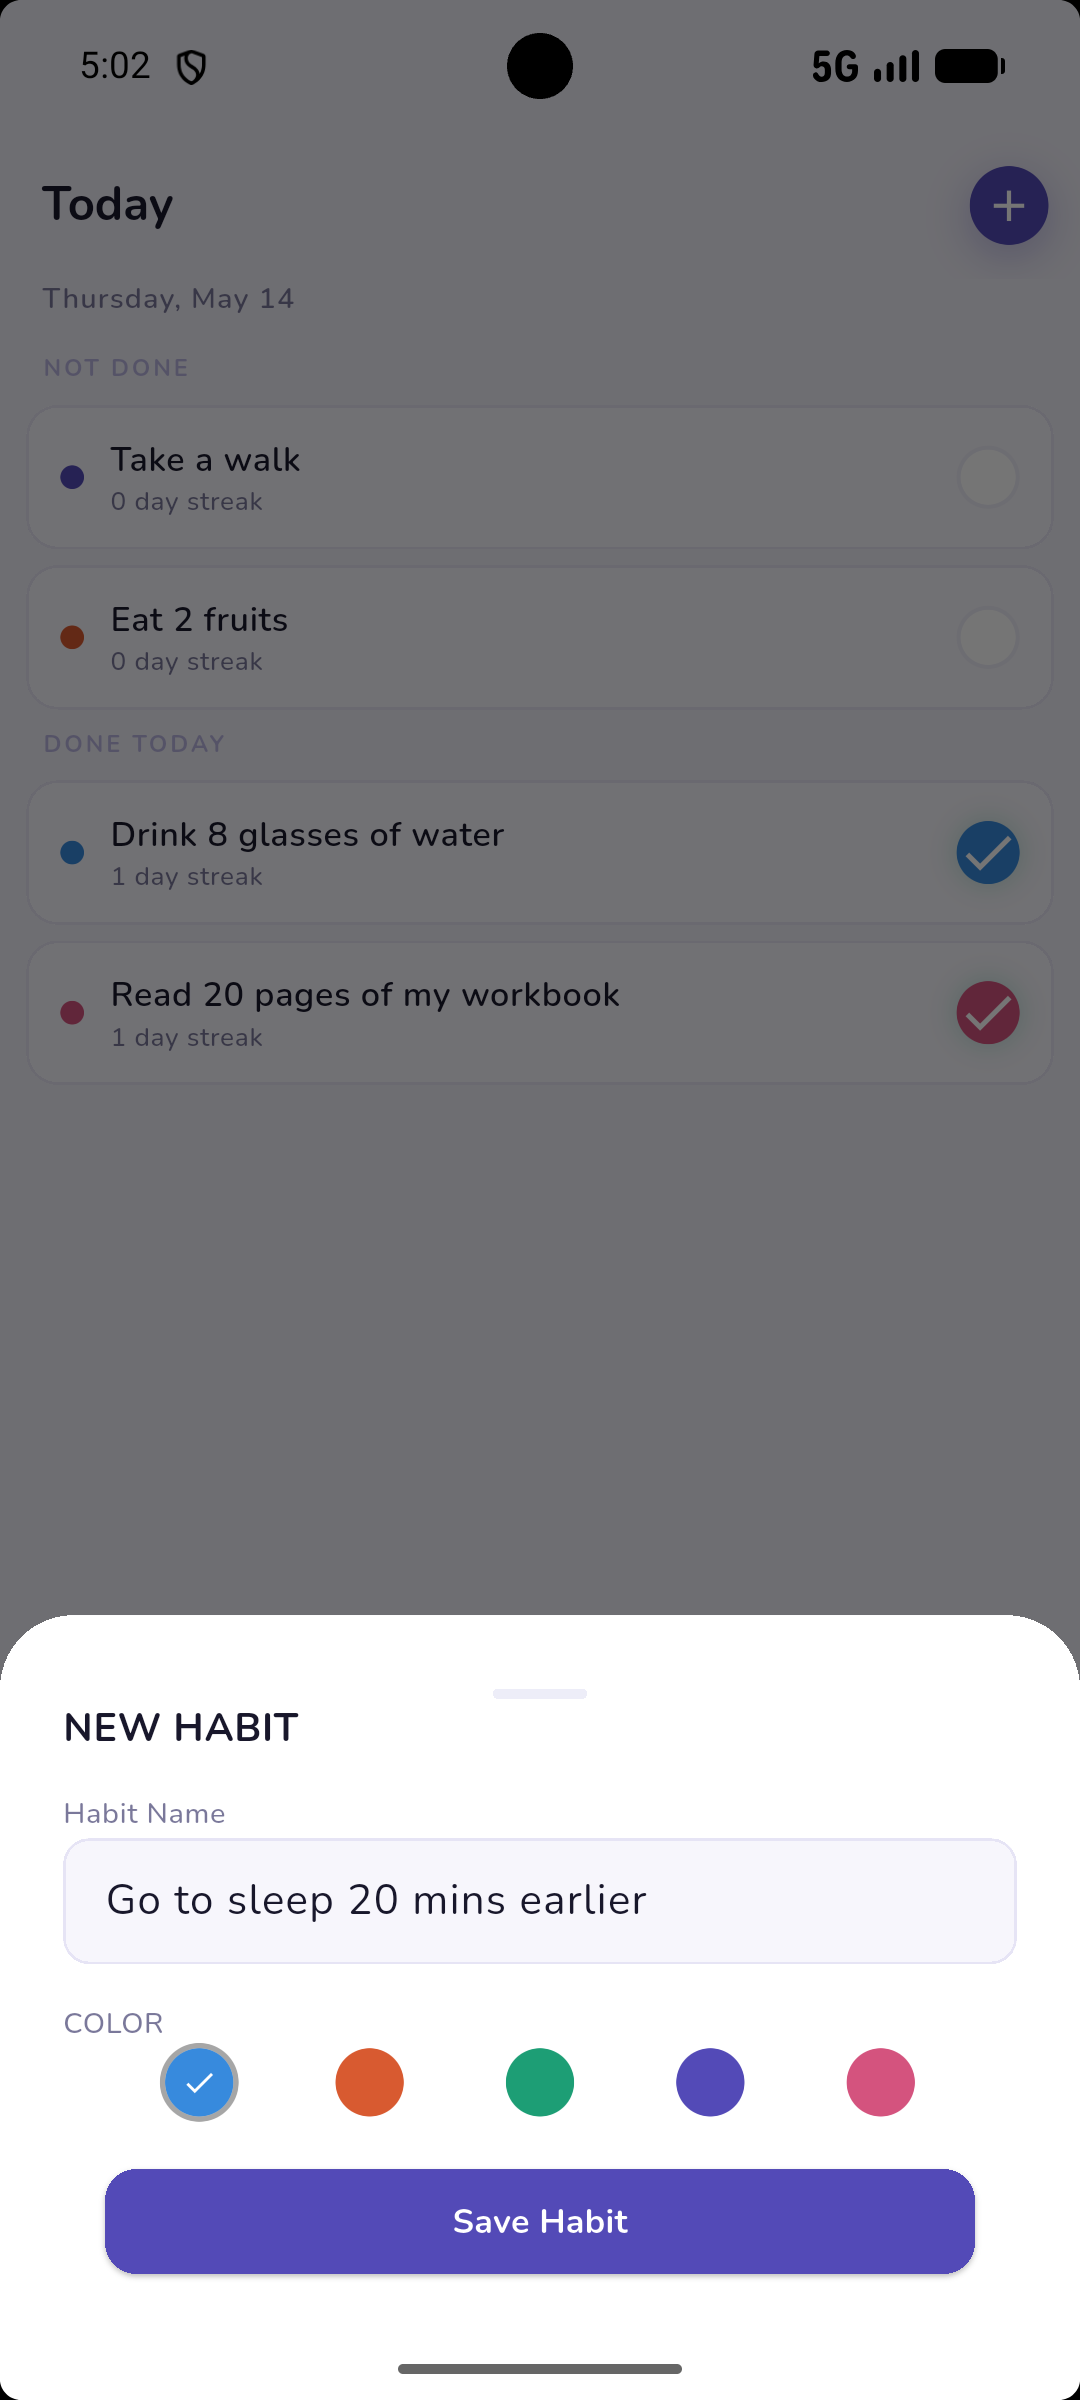
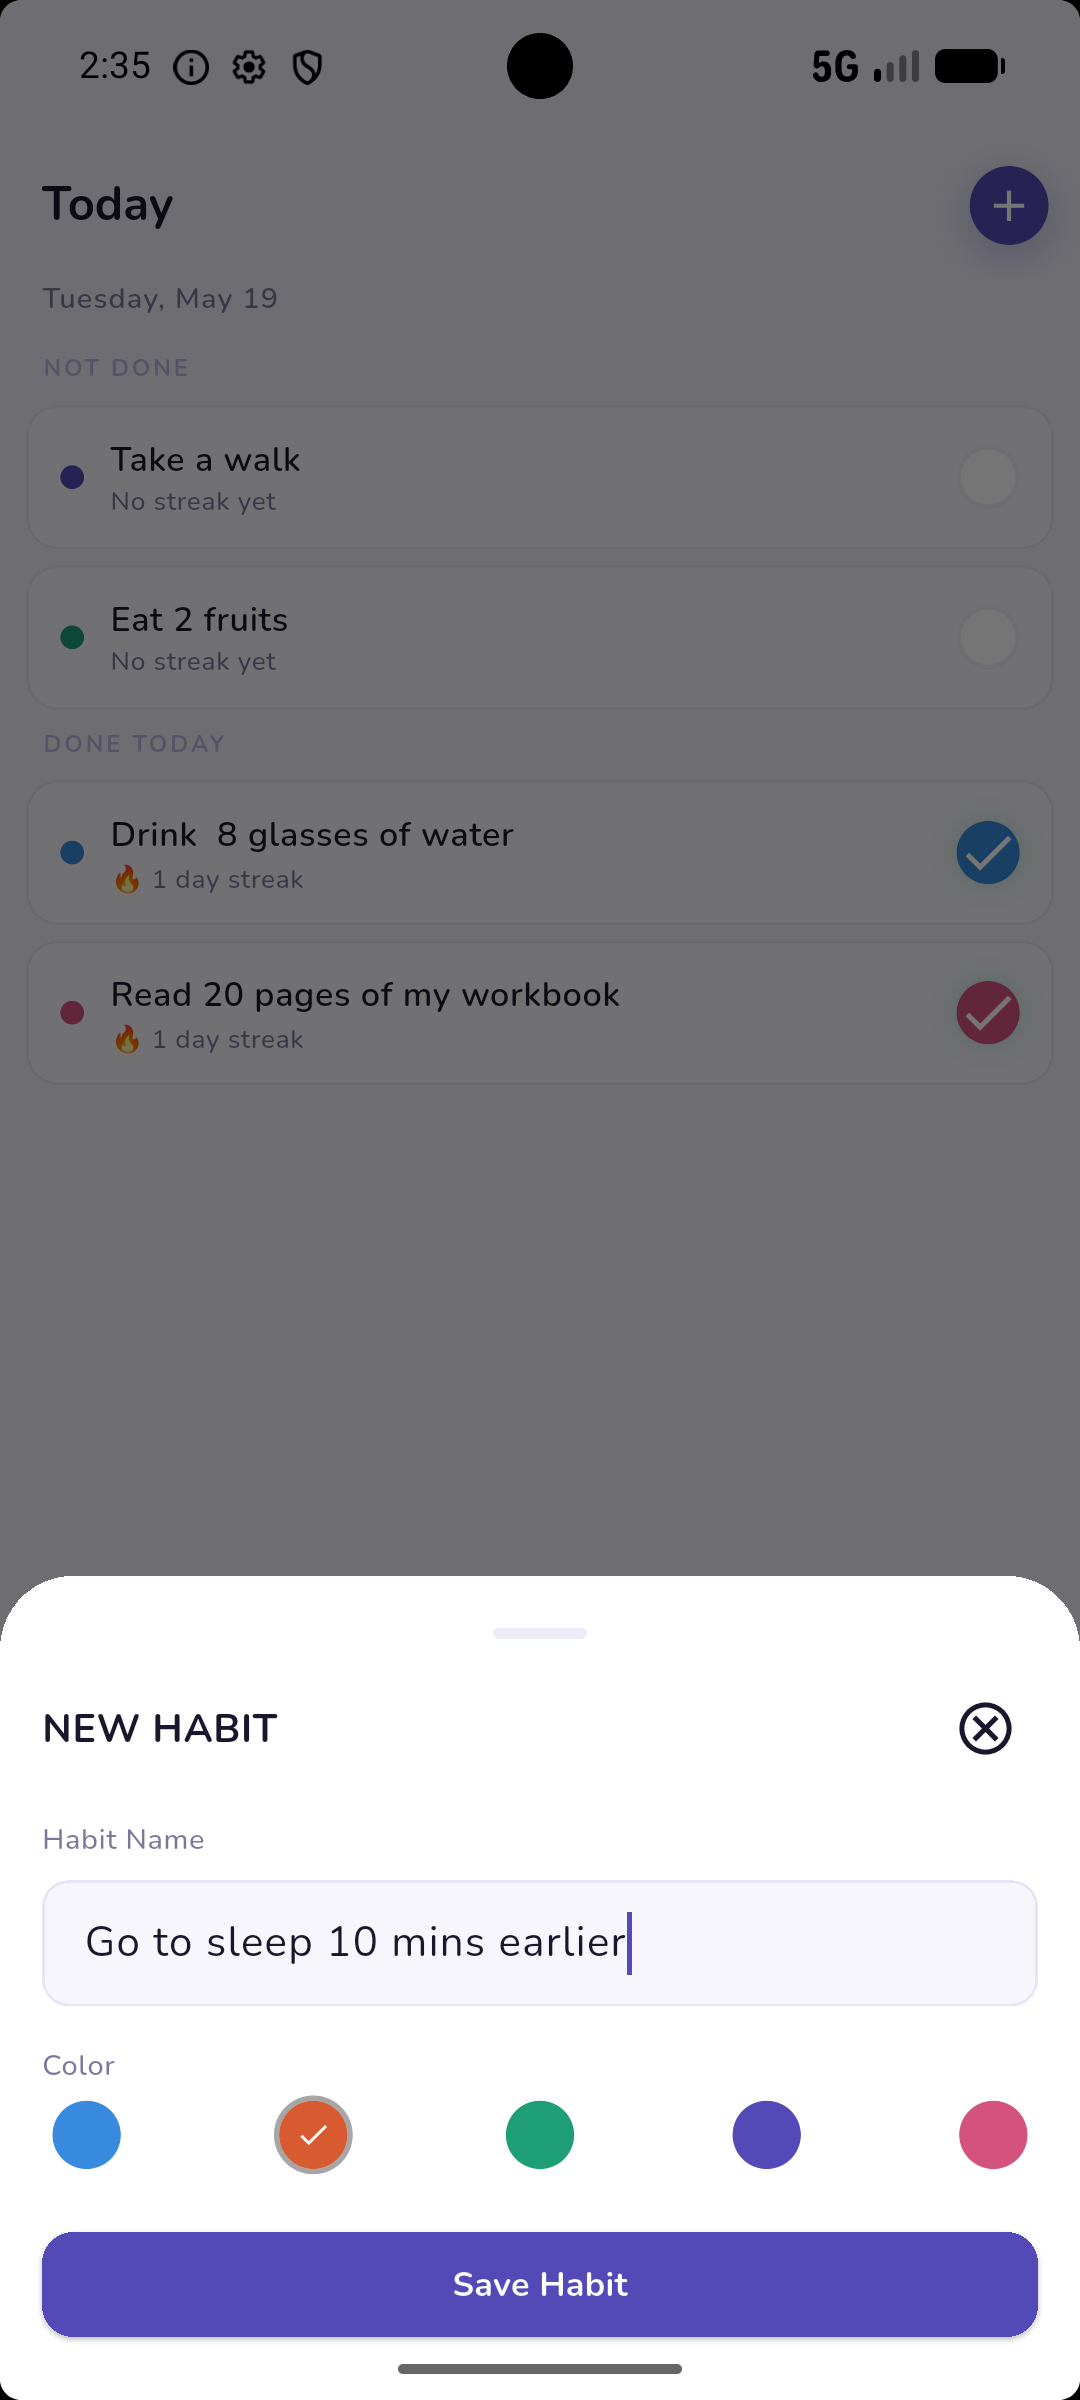
docs: update screenshots to reflect current UI

diff --git a/README.md b/README.md
@@ -7,8 +7,13 @@ A lightweight, offline-first habit tracking app built with Flutter — running o
 
 | | Splash | Today (Empty) | Today (Active) | Add Habit |
 |---|:---:|:---:|:---:|:---:|
-| **iOS** | <img src="docs/ios_splash.png" width="160"/> | <img src="docs/ios_home_empty.png" width="160"/> | <img src="docs/ios_habits.png" width="160"/> | <img src="docs/ios_add_habit.png" width="160"/> |
+| **iOS** | <img src="docs/ios_splash.png" width="160"/> | <img src="docs/ios_home_empty.png" width="160"/> | <img src="docs/ios_home_habits.png" width="160"/> | <img src="docs/ios_add_habit.png" width="160"/> |
 | **Android** | <img src="docs/android_splash.png" width="160"/> | <img src="docs/android_home.png" width="160"/> | <img src="docs/android_home_habits.png" width="160"/> | <img src="docs/android_add_habit.png" width="160"/> |
+
+| | Edit Habit | Progress |
+|---|:---:|:---:|
+| **iOS** | <img src="docs/ios_edit_habit.png" width="160"/> | <img src="docs/ios_progress.png" width="160"/> |
+| **Android** | <img src="docs/android_edit_habit.png" width="160"/> | <img src="docs/android_progress.png" width="160"/> |
 
 ## Features
 
